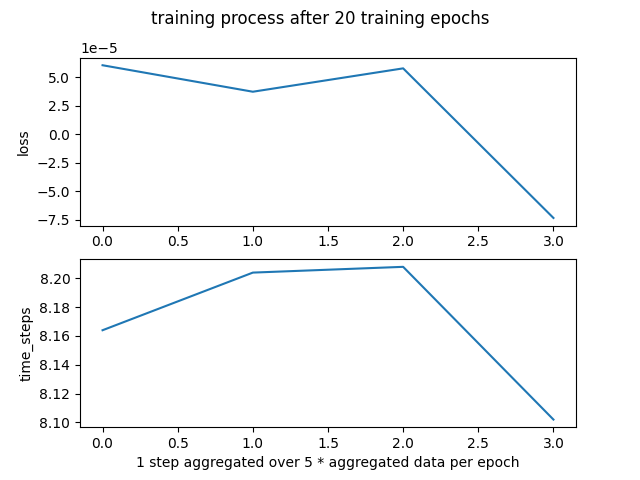
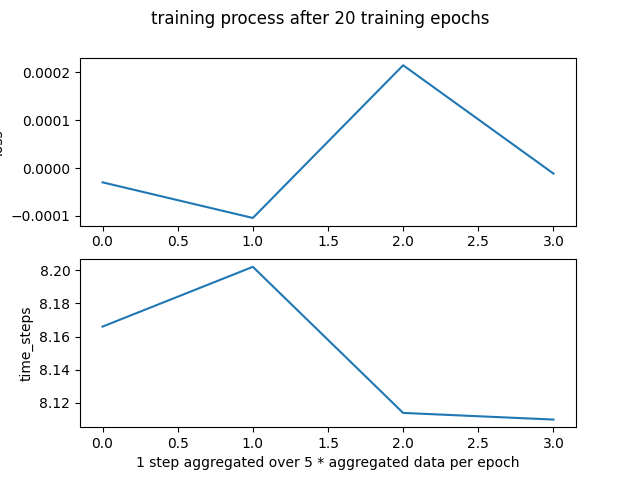
itüpfelchen

diff --git a/showcase.py b/showcase.py
@@ -5,8 +5,8 @@ import tensorflow as tf
 import numpy as np
 import gym
 import ray
-from really import SampleManager
-from really.utils import dict_to_dict_of_datasets
+from really import SampleManager # important !!
+from really.utils import dict_to_dict_of_datasets # convenient function for you to create tensorflow datasets
 
 
 class MyModel(tf.keras.Model):
@@ -23,7 +23,6 @@ class MyModel(tf.keras.Model):
         x = self.layer(x_in)
         v = self.layer2(x)
         output['q_values'] = x
-        output['value_estimate'] = v
         return output
 
 
@@ -45,7 +44,6 @@ class ModelContunous(tf.keras.Model):
         v = self.layer_v(x_in)
         output['mu'] = mus
         output['sigma'] = sigmas
-        output['value_estimate'] = v
 
         return output
 
@@ -57,14 +55,16 @@ if __name__== "__main__":
         'environment' :'CartPole-v0',
         'num_parallel' :5,
         'total_steps' :100,
-        'action_sampling_type' :'thompson',
+        'action_sampling_type' :'epsilon_greedy',
         'num_episodes': 20,
+        'epsilon' : 1,
 
     }
 
     ray.init(log_to_driver=False)
 
     manager = SampleManager(**kwargs)
+    # where to save your results to: create this directory in advance!
     saving_path = os.getcwd()+'/progress_test'
 
     buffer_size = 5000
@@ -102,7 +102,7 @@ if __name__== "__main__":
         # sample data to optimize on from buffer
         sample_dict = manager.sample(sample_size)
         print(f'collected data for: {sample_dict.keys()}')
-        # create and batch datasets
+        # create and batch tf datasets
         data_dict = dict_to_dict_of_datasets(sample_dict, batch_size=optim_batch_size)
 
         print('optimizing...')
@@ -122,7 +122,11 @@ if __name__== "__main__":
         # update aggregator
         time_steps = manager.test(test_steps)
         manager.update_aggregator(loss=dummy_losses, time_steps=time_steps)
+        # print progress
         print(f"epoch ::: {e}  loss ::: {np.mean([np.mean(l) for l in dummy_losses])}   avg env steps ::: {np.mean(time_steps)}")
+
+        # yeu can also alter your managers parameters
+        manager.set_epsilon(epsilon=0.99)
 
         if e%saving_after==0:
             # you can save models
